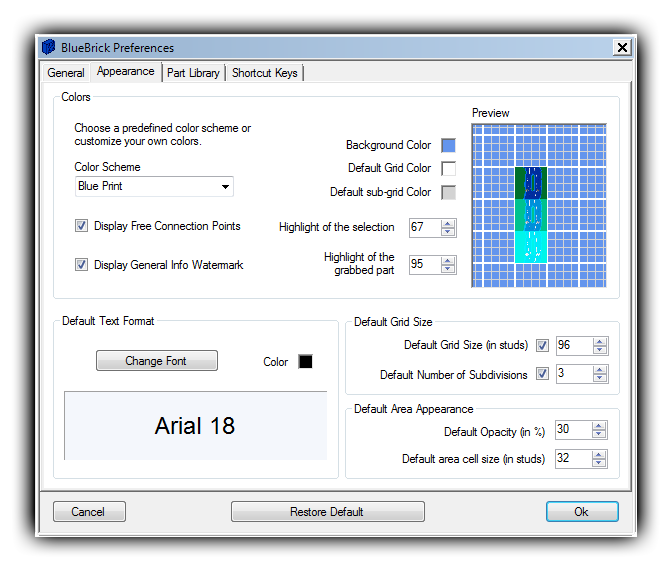
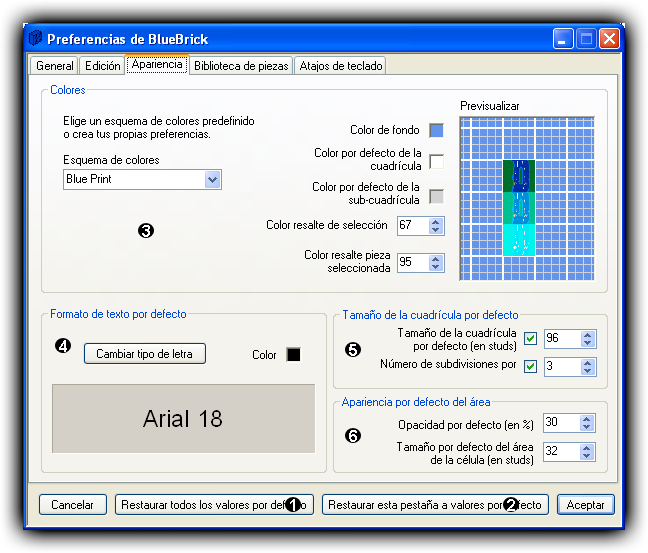
| update the appearance preference text + screenshot (all languages)

diff --git a/Help/en/Preferences_Appearance.htm b/Help/en/Preferences_Appearance.htm
@@ -1,19 +1,20 @@
-<HTML>
-<HEAD>
-<META NAME="keywords" CONTENT="BlueBrick, Help">
-<META NAME="description" CONTENT="The reference documentation for BlueBrick.">
-<META NAME="author" CONTENT="Alex McKenna">
-<LINK REL=StyleSheet HREF="../BlueBrick.css" TYPE="text/css" MEDIA=screen>
-<Title>Appearance Preferences</Title>
-</HEAD>
-<BODY>
-<H1>Appearance Preferences</H1>
-<BR>
-<CENTER><IMG SRC="Preferences_Appearance.png"></CENTER>
+<html>
+<head>
+<meta name="keywords" content="BlueBrick, Help">
+<meta name="description" content="The reference documentation for BlueBrick.">
+<meta name="author" content="Alex McKenna">
+<link rel="StyleSheet" href="../BlueBrick.css" type="text/css" media="screen">
+<title>Appearance Preferences</title>
+</head>
+<body>
+<h1>Appearance Preferences</h1>
+<center><img src="Preferences_Appearance.png"></center>
 
-<P><B>Display Free Connection Points</B> toggles the various connection indicators on or off. They are on in the default setting to help indicate available connection points, or broken links between parts. You may wish to switch this option off when you have completed your layout.</P>
+<p>The default <b>Color Scheme</b> <font class="RefNumber">3</font> is "Blue Print" You can also select a Parchment or Classic version. Custom color schemes can be made by choosing your colors by clicking on the color boxes next to the following text entries: "Background Color", "Default Grid Color" and "Default sub-grid Color". You can also adjust the highlight percentage for the selected parts and for the single part you grab in a group of selected parts. The result of your color settings will be shown in the preview window. The changes will not take effect until after press the "Ok" button.</p>
 
-<P>The default <B>Color Scheme</B> is "Blue Print" You can also select a Parchment or Classic version. Custom color schemes can be made by selecting "Custom" from drop down list and choosing your colors by clicking on the color boxes next to the following text entries. "Background Color", "Default Grid Color" and "Default sub-grid Color". The result of your color selection will be shown in the preview window. The changes will not take effect until after press "Ok" in the BlueBrick Options window.</P>
+<p>You can also set the <b>default text format</b> <font class="RefNumber">4</font> (font style and color) which will be used each time you create a new text on your map.</p>
 
-</BODY>
-</HTML>
+<p>Similarly you can set the default settings for each new grid layer <font class="RefNumber">5</font> and each new area layer <font class="RefNumber">6</font>. To tune the default ruler style see the <a href="Preferences_Edition.htm">Edition Preference</a> section.</p>
+
+</body>
+</html>

diff --git a/Help/es/Preferences_Appearance.htm b/Help/es/Preferences_Appearance.htm
@@ -10,12 +10,13 @@
 </HEAD>
 <BODY>
 <H1>Preferencias de apariencia</H1>
-<BR>
 <CENTER><IMG SRC="Preferences_Appearance.png"></CENTER>
 
-<P><B>Mostrar puntos de conexi&oacute;n libres</B> enciende o apaga los diferentes indicadores de conexi&oacute;n. En los ajustes por defecto estos se muestran para ayudar a indicar los puntos de conexi&oacute;n disponibles o conexiones rotas entre piezas. Tal vez quieras apagar esta opci&oacute;n cuando hayas terminado el dise&ntilde;o.</P>
+<P>El <B>esquema de colores</B> <font class="RefNumber">3</font> por defecto es &quot;Blue Print&quot;. Tambi&eacute;n puedes seleccionar las versiones Pergamino o Cl&aacute;sico. Puedes crear esquemas de colores personalizados seleccionando la opci&oacute;n &quot;Personalizado de la lista desplegable y seleccionando tus colores en las cajas de colores al lado de las descripciones de texto : &quot;Color de fondo&quot;, &quot;Color de cuadr&iacute;cula &quot; y &quot;Color de sub-cuadr&iacute;cula&quot; <div class="ToTranslate">You can also adjust the highlight percentage for the selected parts and for the single part you grab in a group of selected parts.</div> El resultado de tu selecci&oacute;n de colores se mostrar&aacute; en la ventana de muestra. Los cambios no tendr&aacute;n efecto hasta que pulses &quot;OK&quot;.</P>
 
-<P>El <B>esquema de colores</B> por defecto es &quot;Blue Print&quot;. Tambi&eacute;n puedes seleccionar las versiones Pergamino o Cl&aacute;sico. Puedes crear esquemas de colores personalizados seleccionando la opci&oacute;n &quot;Personalizado de la lista desplegable y seleccionando tus colores en las cajas de colores al lado de las descripciones de texto. &quot;Color de fondo&quot;, &quot;Color de cuadr&iacute;cula &quot; y &quot;Color de sub-cuadr&iacute;cula&quot; El resultado de tu selecci&oacute;n de colores se mostrar&aacute; en la ventana de muestra. Los cambios no tendr&aacute;n efecto hasta que pulses &quot;OK&quot; en la ventana de opciones de BlueBrick.</P>
+<p>You can also set the <b>default text format</b> <font class="RefNumber">4</font> (font style and color) which will be used each time you create a new text on your map.</p>
+
+<p>Similarly you can set the default settings for each new grid layer <font class="RefNumber">5</font> and each new area layer <font class="RefNumber">6</font>. To tune the default ruler style see the <a href="Preferences_Edition.htm">Edition Preference</a> section.</p>
 
 </BODY>
 </HTML>

diff --git a/Help/fr/Preferences_Appearance.htm b/Help/fr/Preferences_Appearance.htm
@@ -10,12 +10,13 @@
 </head>
 <body>
 <h1>Préférences d'apparence</h1>
-<br>
 <center><img src="Preferences_Appearance.png"></center>
 
-<p><b>Afficher les Points de Connections Libres</b> alterne les différents indicateurs de connections entre actif et inactif. Ceux-ci sont actifs par défaut pour visualiser les points libres ainsi que les liens brisés entre les pièces. Vous pouvez mettre cette option à inactive lorsque vous avez complété votre plan.</p>
+<P>Par défaut le <b>Schéma de Couleurs</b> <font class="RefNumber">3</font> est "Blue Print". Vous pouvez sélectionner une version Parchemin ou Classique. Les schémas de couleurs personnalisés peuvent être configurés en choisissant la couleur en cliquant sur la boite de couleurs à la droite des textes : "Couleur de fond", "Couleur de grille par défaut" et "Couleur par défaut de la sous-grille". Vous pouvez aussi ajuster le pourcentage de surbrillance des pièces sélectionnées et de la pièce unique que vous attrapez dans un groupe de pièces sélectionnées. Le résultat de votre choix de couleurs sera présenté dans la fenêtre de prévisualisation. Ces changements ne seront effectifs que lorsque vous aurez cliqué sur le bouton "Ok".</p>
 
-<P>Par défaut le <b>Schéma de Couleurs</b> est "Blue Print". Vous pouvez sélectionner une version Parchemin ou Classique. Les schémas de couleurs personnalisés peuvent être configurés en sélectionnant "Personnalisé" du menu déroulant et choisissant la couleur en cliquant sur la boite de couleurs à la droite du texte. "Couleur de fond", "Couleur de grille par défaut" et "Couleur par défaut de la sous-grille". Le résultat de votre choix de couleurs sera présenté dans la fenêtre de prévisualisation. Ces changements ne seront effectifs que lorsque vous aurez cliqué sur le bouton "Ok" dans la fenêtre Préférences de BlueBrick.</p>
+<p>Vous pouvez aussi choisir le <b>format des textes par défaut</b> <font class="RefNumber">4</font> (police et couleur) qui seront utilisées chaque fois que vous créerez un nouveau texte sur votre plan.</p>
+
+<p>De la même façon vous pouvez choisir les options par défaut pour chaque nouveau calque de type grille <font class="RefNumber">5</font> et chaque nouveau calque de type zone <font class="RefNumber">6</font>. Pour ajuster le style par défaut des règles lisez la section <a href="Preferences_Edition.htm">Préference d'Edition</a>.</p>
 
 </body>
 </html>

diff --git a/Help/nl/Preferences_Appearance.htm b/Help/nl/Preferences_Appearance.htm
@@ -8,12 +8,13 @@
 </HEAD>
 <BODY>
 <H1>Beschikbare verbindingspunten</H1>
-<BR>
 <CENTER><IMG SRC="Preferences_Appearance.png"></CENTER>
 
-<P><B>Tonen beschikbare verbindingspunten</B> schakelt het tonen van de verschillende verbindingspunten aan of uit. Standaard staat deze instelling aan om nog beschikbare of verbroken verbindingspunten aan te geven. Je kunt deze optie uit schakelen wanneer je klaar bent met je lay-out.</P>
+<P>Het standaard <B>kleurenschema</B> <font class="RefNumber">3</font> is "Blue Print". Je kunt ook voor klassieke versies kiezen. Aangepaste kleurenschema's kunnen worden gemaakt door te kiezen voor "Custom" uit drop-down lijst en het kiezen van de gewenste kleuren door te klikken op de kleur vakjes naast de tekst vermeldingen, "Achtergrondkleur", "Standaard RasterKleur" en "Standaard sub-raster kleur". <div class="ToTranslate">You can also adjust the highlight percentage for the selected parts and for the single part you grab in a group of selected parts.</div> Het resultaat van de kleur selectie zal worden weergegeven in het voorbeeldvenster.  De veranderingen zullen pas van kracht na het klikken op de "OK" button.</P>
 
-<P>Het standaard <B>kleurenschema</B> is "Blue Print". Je kunt ook voor klassieke versies kiezen. Aangepaste kleurenschema's kunnen worden gemaakt door te kiezen voor "Custom" uit drop-down lijst en het kiezen van de gewenste kleuren door te klikken op de kleur vakjes naast de tekst vermeldingen, "Achtergrondkleur", "Standaard RasterKleur" en "Standaard sub-raster kleur".  Het resultaat van de kleur selectie zal worden weergegeven in het voorbeeldvenster.  De veranderingen zullen pas van kracht na het klikken op de "OK" button in het BlueBrick opties venster.</P>
+<p>You can also set the <b>default text format</b> <font class="RefNumber">4</font> (font style and color) which will be used each time you create a new text on your map.</p>
+
+<p>Similarly you can set the default settings for each new grid layer <font class="RefNumber">5</font> and each new area layer <font class="RefNumber">6</font>. To tune the default ruler style see the <a href="Preferences_Edition.htm">Edition Preference</a> section.</p>
 
 </BODY>
 </HTML>

diff --git a/Help/de/Preferences_Appearance.htm b/Help/de/Preferences_Appearance.htm
@@ -8,12 +8,13 @@
 </HEAD>
 <BODY>
 <H1>Aussehen (Erscheinungsbild) einstellen</H1>
-<BR>
 <CENTER><IMG SRC="Preferences_Appearance.png"></CENTER>
 
-<P>Mit dem Kontrollkästchen <B>Zeige freie Verbindungspunkte an</B> können freie Verbindungspunkte angezeigt oder auch ausgeblendet werden. Als Standardeinstellung werden diese Verbindungspunkte angezeigt, um verfügbare Verknüpfungspunkte oder unterbrochene Verbindungen zu zeigen. Bei einem fertigen Gleisplan macht es Sinn, diese Option auszuschalten.</P>
+<P>Das Standard- <B>Farbschema</B> <font class="RefNumber">3</font> ist "Blaupause". Es kann auch "Pergament" oder "Klassisch" ausgewählt werden. Benutzerdefinierte Farbschemata können durch Auswahl "Erweitert" und Anklicken der farbigen Kästchen hinter "Hintergrundfarbe", "Standard Rasterfarbe" und "Standard Unterrasterfarbe" erstellt werden. <div class="ToTranslate">You can also adjust the highlight percentage for the selected parts and for the single part you grab in a group of selected parts.</div> Das Ergebnis der Farbauswahl wird im Vorschaufenster angezeigt. Mit Anklicken des Buttons "OK".</P>
 
-<P>Das Standard- <B>Farbschema</B> ist "Blaupause". Es kann auch "Pergament" oder "Klassisch" ausgewählt werden. Benutzerdefinierte Farbschemata können durch Auswahl "Erweitert" und Anklicken der farbigen Kästchen hinter "Hintergrundfarbe", "Standard Rasterfarbe" und "Standard Unterrasterfarbe" erstellt werden. Das Ergebnis der Farbauswahl wird im Vorschaufenster angezeigt. Mit Anklicken des Buttons "OK" unten rechts werden diese Änderungen aktiv.</P>
+<p>You can also set the <b>default text format</b> <font class="RefNumber">4</font> (font style and color) which will be used each time you create a new text on your map.</p>
+
+<p>Similarly you can set the default settings for each new grid layer <font class="RefNumber">5</font> and each new area layer <font class="RefNumber">6</font>. To tune the default ruler style see the <a href="Preferences_Edition.htm">Edition Preference</a> section.</p>
 
 </BODY>
 </HTML>
